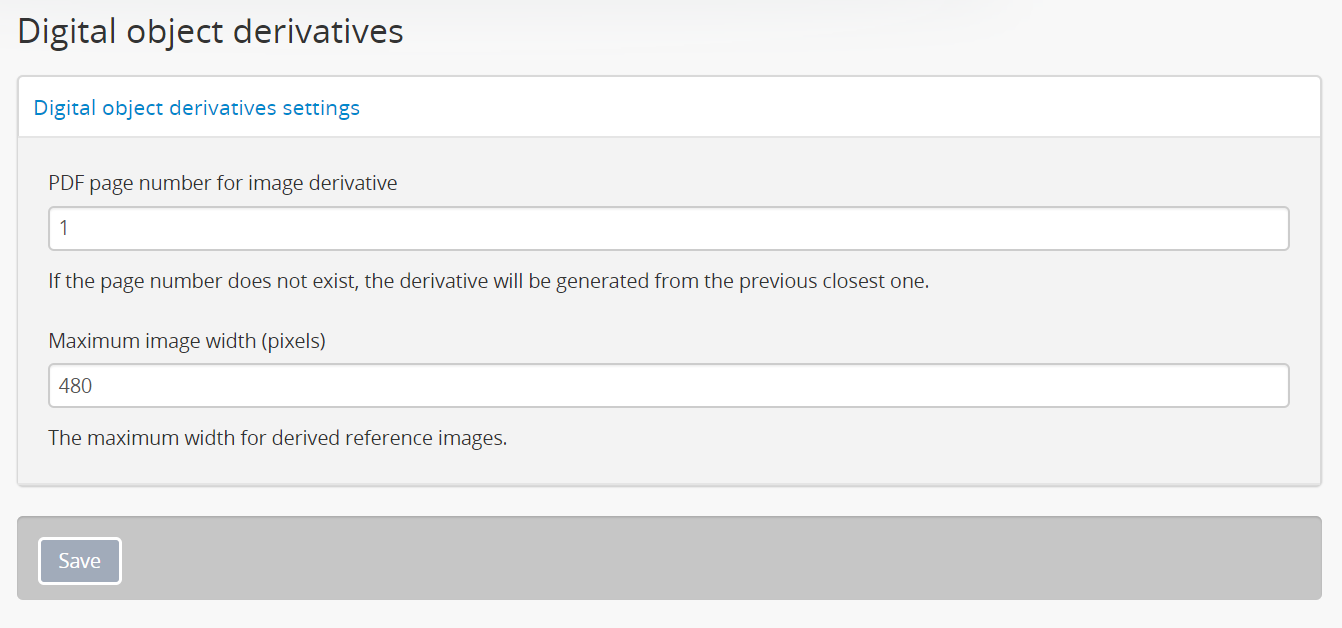
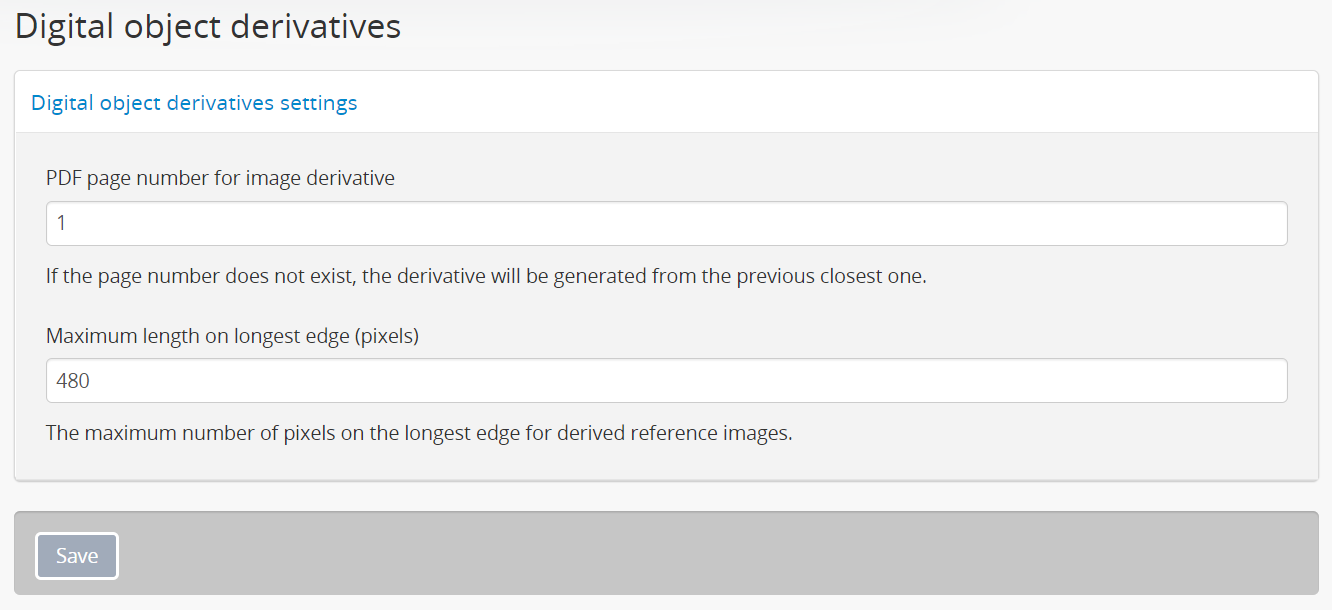
Update deriv settings, refs #13471

diff --git a/user-manual/administer/settings.rst b/user-manual/administer/settings.rst
@@ -1395,24 +1395,30 @@ If you make changes, remember to click the "Save" button in the
 
 .. _max-image-width:
 
-Maximum image width (pixels)
-----------------------------
+Maximum length on longest edge (pixels)
+---------------------------------------
+
+This setting determines the maximum size of the :term:`reference display copy` 
+derivative created from a :term:`master digital object` during digital object
+upload. It is measured in pixels, and will be applied either to height or
+width - whichever side reaches the pixel limit first. 
 
 One of AtoM's design assumptions is that the display dimensions of files
 users upload typically will be too large to fit into the :term:`view page` for
 an :term:`archival description`. Therefore, when you upload a file, AtoM creates
 a :term:`reference display copy` for displaying in the view page.
 
-AtoM ships with a default setting specifying the maximum width of the
+AtoM ships with a default setting specifying the maximum width or height of the
 :term:`reference display copy` at **480 pixels**. This is the optimized width
 given AtoM's :term:`field` width. :term:`Administrators <administrator>`,
 however, can increase or decrease the maximum reference image
-width to suit the requirements of their institution or network.
+size to suit the requirements of their institution or network.
 
 .. seealso::
 
    * :ref:`Styling static pages <styling-static-page>`
    * :ref:`Themes & Theming <themes>`
+   * :ref:`Upload settings <upload-settings>`
 
 :ref:`Back to top <settings>`
 
